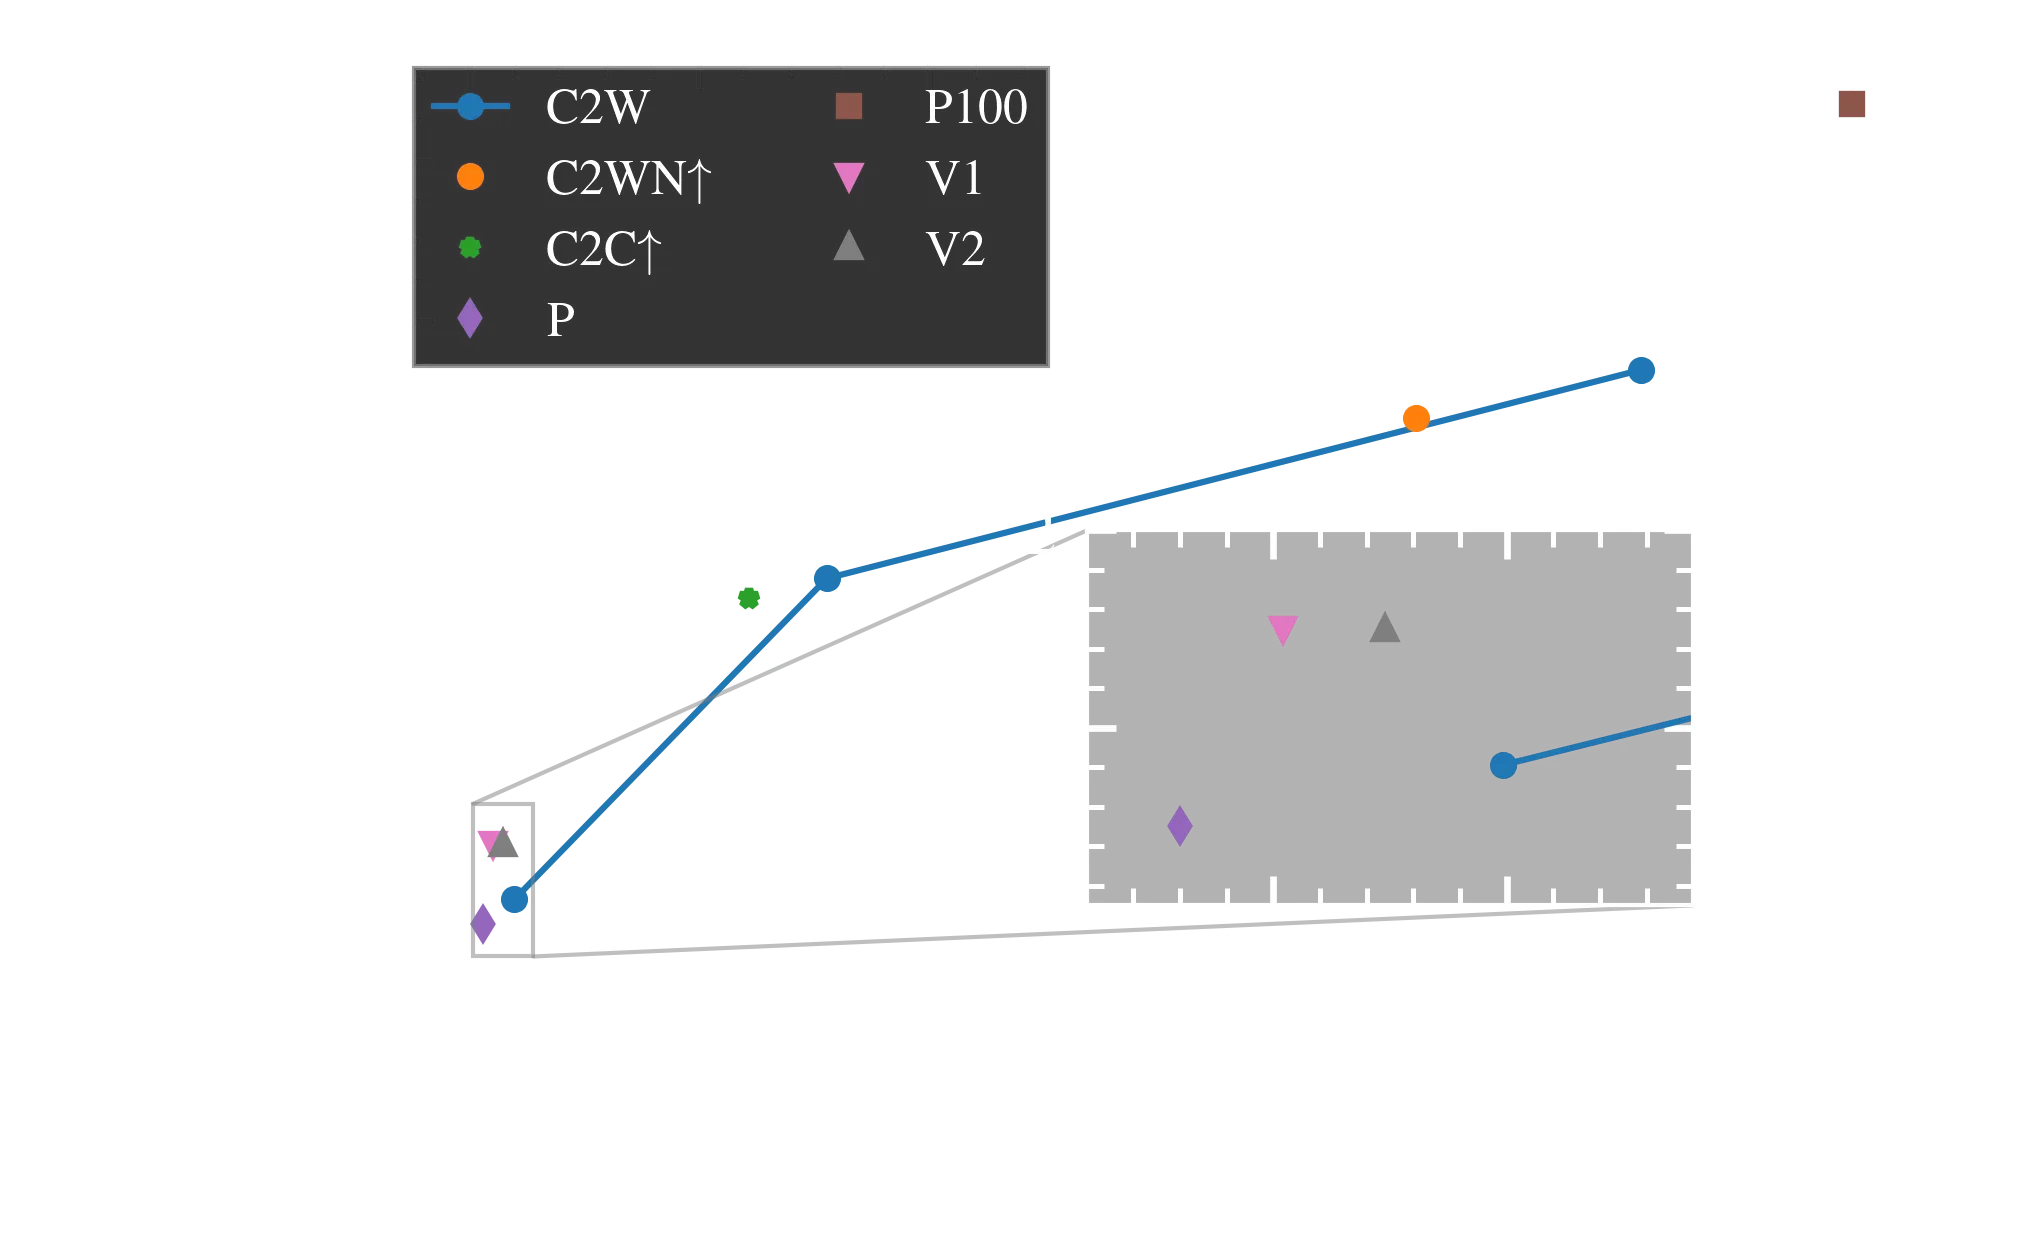
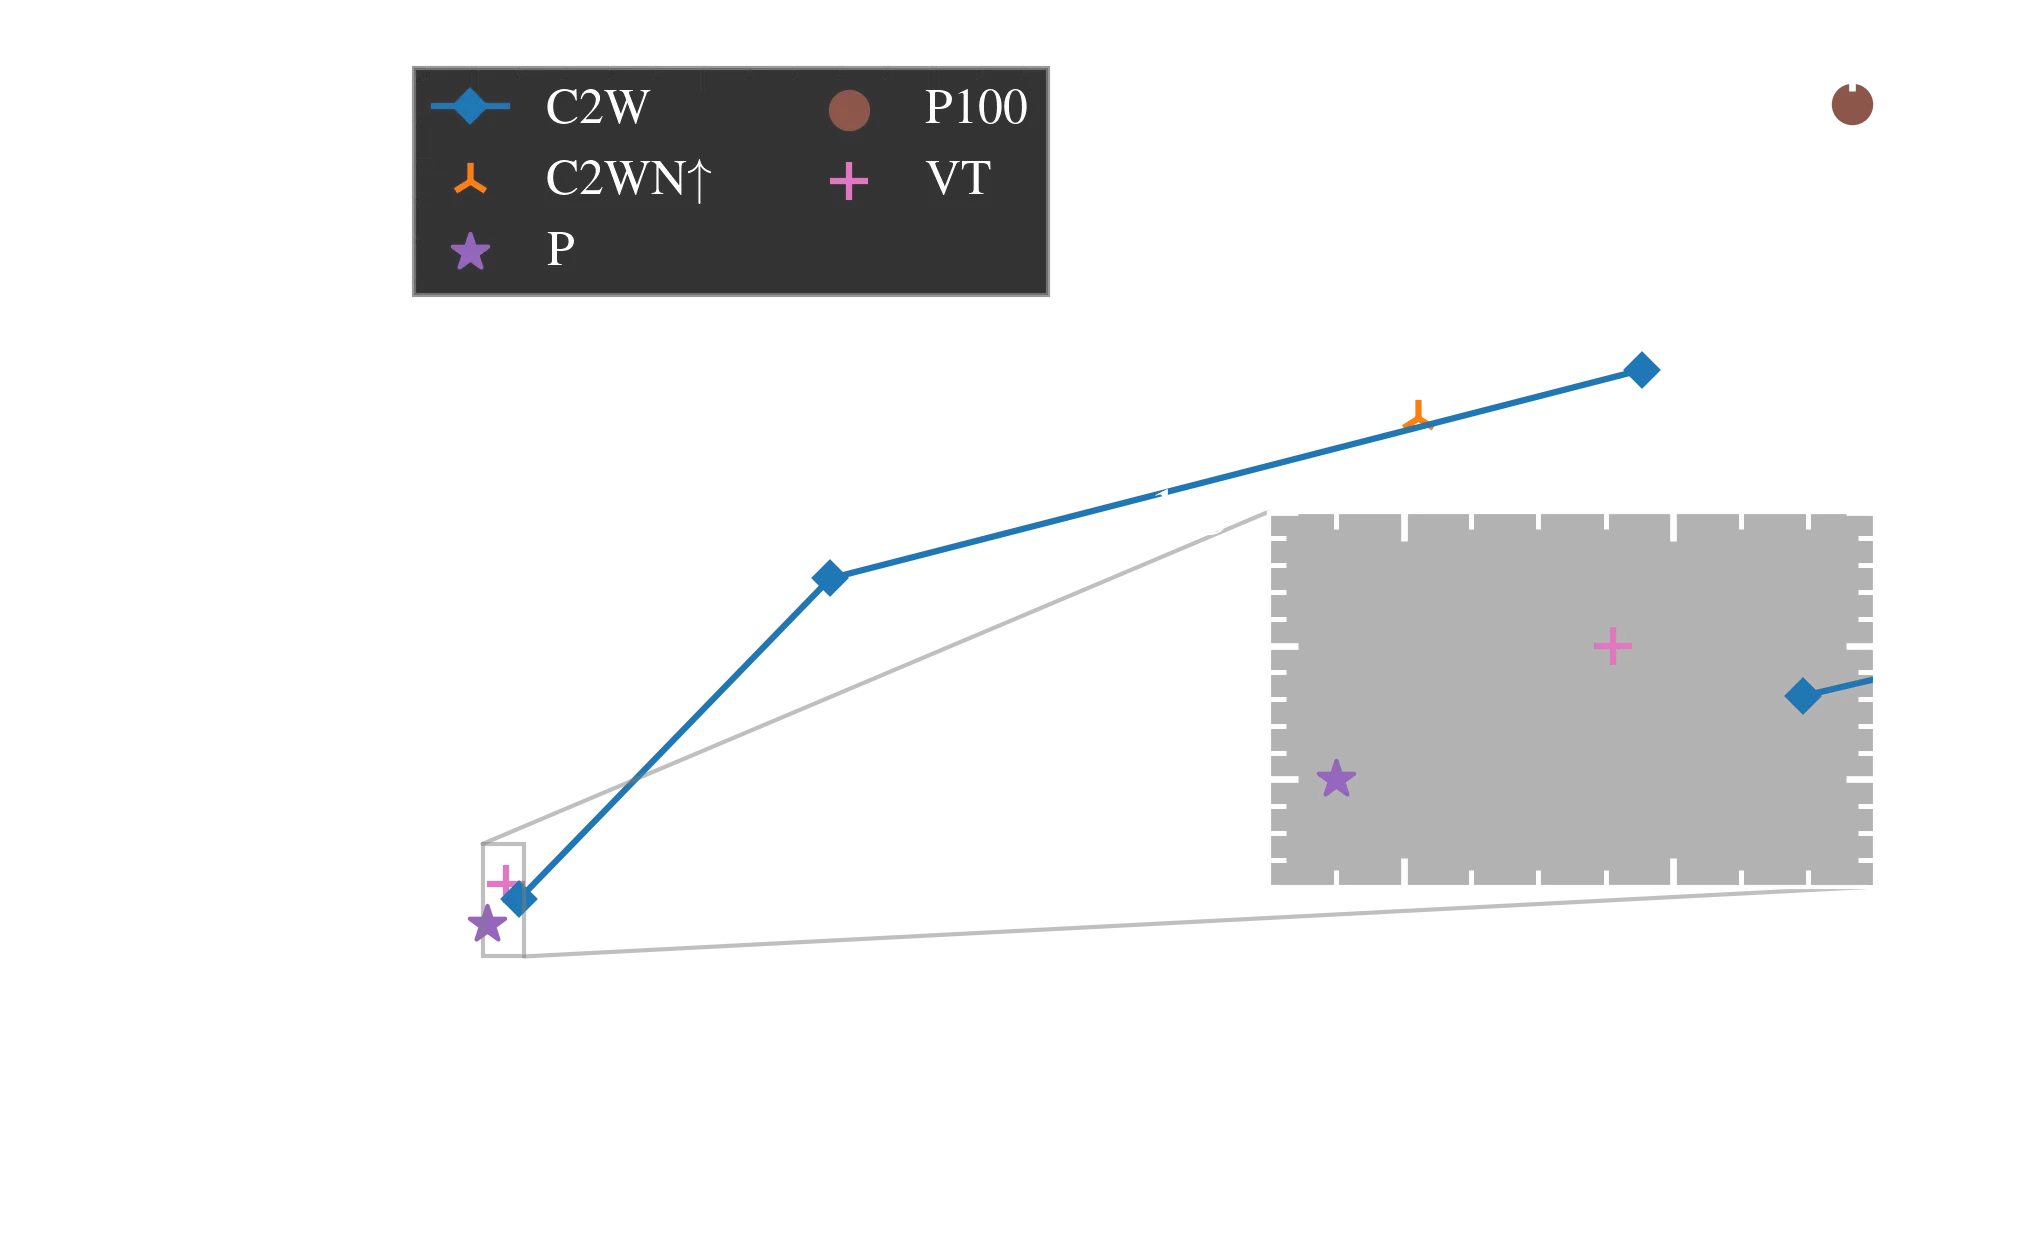
chore: clean up main egu talk

diff --git a/content/2023-03-24-egu-conference.md b/content/2023-03-24-egu-conference.md
@@ -41,15 +41,8 @@ to the magnitude of volcanic eruptions".
 
 ## Motivation
 
-See to the abstract, pull out some of it to mention here.
-
 <!-- .slide: data-background-color="#001928" -->
 <!-- .slide: data-visibility="hidden" -->
-
-Notes:
-
-The reason we are visiting this topic is that there have been several attempts to do
-[this], many of which focus on or assume [something about linearity maybe].
 
 --
 
@@ -88,75 +81,6 @@ Plot from [Gregory et al. (2016)](https://doi.org/10.1007/s00382-016-3055-1), fi
 --
 
 <!-- .slide: data-background-color="#001928" -->
-
-<!-- .slide: data-visibility="hidden" -->
-
-From Gregory et al. (2016):
-
-> It would be useful for investigation of volcanic forcing and feedback in CMIP6 if
-> ensemble experiments were conducted with historical volcanic aerosol as the only
-> forcing agent in each AOGCM, to diagnose the climate response, and with the
-> corresponding AGCMs with prescribed sea surface conditions, to diagnose the radiative
-> forcing. This would reveal whether other models also exhibit a cloud adjustment and a
-> lower climate sensitivity for volcanic forcing, and offer the opportunity for analysis
-> of the processes involved.
-
-<!-- .element: style="font-size:20pt" -->
-
-Expect $M\_\{k,\\,\mathrm\{AOD\}\}^\max\propto
-M\_\{k,\\,\mathrm\{TOA\}\}^\max,\\,\mathrm{AOD}\in (0,0.15)$
-
-<a href="https://doi.org/10.1007/s00382-016-3055-1"
-data-citation-key="@gregory2016">Gregory et al. (2016)</a>
-
-<!-- .element: style="font-size:13pt" -->
-
-Notes:
-
-One note to make about the AOD and radiative imbalance is that they are often assumed as
-being proportional, with a proportionality constant of 25 estimated in the AR5.
-
---
-
-<!-- .slide: data-visibility="hidden" -->
-<!-- .slide: data-background-color="#001928" -->
-
-Using a linear operator to describe temperature fluctuations:
-
-$$
-\Delta T(t)=\hat{L}[f_K(t)]
-$$
-
-$$
-\Delta T(t)=\phi\ast f_K(t)=\phi\ast\sum_k A_k\delta(t-t_k)
-$$
-
-<!-- .element: class="fragment" -->
-
-Notes:
-
-Previous efforts of estimating a temperature response function from forcing data have
-often been to use a linear operator to describe temperature fluctuations in response to
-a forcing. Some studies also assume the forcing from different agents to be similar,
-although this have been disputed by several studies.
-
-The equation is depicting the linear relation between some forcing 𝑓(𝑡) and the
-deterministic temperature fluctuation due to the forcing.
-
-We wish to look further into the linearity assumption in relation to volcanoes over a
-large range of eruption magnitudes. With magnitude, we here mean the total sulphur
-aerosol mass.
-
-In particular; is it reasonable to write up the temperature response to volcanic
-eruptions as a convolution between the forcing and some general shape function, here
-represented by the letter 𝜙.
-
-The forcing is here consisting only of forcing due to episodic volcanoes, where 𝐴
-represent the amplitude of a given volcanic event arriving at time 𝑡_𝑘.
-
---
-
-<!-- .slide: data-background-color="#001928" -->
 <!-- .slide: data-background-size="contain" -->
 <!-- .slide: data-background="./attachments/egu2023/ens-plts/temperature-all-strengths.webp" -->
 
@@ -188,53 +112,6 @@ From this initial simulation of overlapping pulses, the superposing of temperatu
 responses is relatively good, motivating further analysis of the linearity (or lack
 thereof) of the temperature response.
 
---
-
-<!-- .slide: data-visibility="hidden" -->
-<!-- .slide: data-background-color="#001928" -->
-<!-- .slide: data-background="./attachments/egu2023/double-overlap-superpose.webp" -->
-<!-- .slide: data-background-size="contain" -->
-<!-- .slide: data-background-opacity="0.1" -->
-
-`$$
-\Delta T(t)=\phi\ast f_K(t)=\phi\ast\sum_k A_k\delta(t-t_k)
-$$`
-
-`$$
-A_k\left\{
-\begin{aligned}
-&\overset{?}{=}g(M_k^{\max})\\
-&\overset{?}{=}M_k^{\max}
-\end{aligned}
-\right.,\,
-M=\left\{
-\begin{aligned}
-&\mathrm{SO_2\,[Tg]}\\
-&\mathrm{AOD\,[1]}\\
-&\mathrm{TOA\,[W/m^2]}
-\end{aligned}
-\right.
-$$`
-
-<!-- .element: class="fragment" data-fragment-index="1" -->
-
-where `$M_k^{\max}$` is the peak magnitude of event `$k$`.
-
-<!-- .element: class="fragment" data-fragment-index="1" -->
-<!-- .element: style="font-size:20pt" -->
-
-Notes:
-
-The question then become, can we convolve a general response function with some forcing
-representation to obtain temperature fluctuations? Or do we perhaps need a non-linear
-transformation of the forcing to be able to get temperature from convolutions?
-
-We consider three different sources to describe the forcing; total injected SO2 in Tg,
-the aerosol optical depth and forcing as top-of-the-atmosphere radiative imbalance.
-
-(Injected SO2 is used as model input to simulate the volcanoes, while both AOD and
-radiative imbalance are output variables of the model.)
-
 ---
 
 ## Results
@@ -252,14 +129,14 @@ _Legend description for the forthcoming figures._
 | C2W        | CESM2(WACCM6)                |
 | C2WN       | CESM2(WACCM6), high latitude |
 | C2C        | CESM2(CAM6)                  |
-| C1C        | CESM1(CAM5)                  |
 | P          | Pinatubo, observational      |
 | P100       | 100 times Pinatubo           |
-| V1         | VolMIP, version 1            |
-| V2         | VolMIP, version 2            |
+| VT         | VolMIP, Tambora              |
 
 <!-- .element: class_="fragment animated move-to scale-down" data-animated-move-to-left="-15vw" data-animated-move-to-top="10vh" -->
 <!-- .element: style="font-size:15pt" -->
+
+
 
 Notes:
 
@@ -273,89 +150,29 @@ volcanic eruptions of three different sizes:
 
 --
 
-<!-- .slide: data-visibility="hidden" -->
 <!-- .slide: data-background-size="contain" -->
-<!-- .slide: data-background="./attachments/egu2023/ens-plts/injection_vs_temperature.webp" -->
+<!-- .slide: data-background="./attachments/egu2023/ens-plts/aod_vs_temperature_logscale.webp" -->
 
 Notes:
 
-Temperature anomaly against injected SO2.
+Aerosol optical depth versus temperature on semilog-x axis.
 
-Note that the green asterisk, C2C, is NOT part of the inset, but has the same AOD value
-as the orange circle (C2WN), and the most extreme C2W point.
+This plot is showing the peak values of the three individual CESM2(WACCM6) runs, the
+CESM2(WACCM6) run that is the same as the largest individual, but placed at 56 degree
+north, as well as data from the Mount Pinatubo eruption, Pinatubo times 100 simulation
+and Mount Tambora Eruption.
+
+The C2W temperature data show close to logarithmic dependence on AOD, while data from
+other sources than CESM2 fall slightly off this, with especially the Pinatubo times 100
+simulation having a large temperature response.
 
 | Short Name | Long Name                    |
 | :--------- | :--------------------------- |
 | C2W        | CESM2(WACCM6)                |
-| C2WN       | CESM2(WACCM6), high latitude |
-| C2C        | CESM2(CAM6)                  |
-| C1C        | CESM1(CAM5)                  |
-| P          | Pinatubo, observational      |
+| C2WN⬆      | CESM2(WACCM6), high latitude |
+| P          | Pinatubo                     |
 | P100       | 100 times Pinatubo           |
-| V          | VolMIP                       |
-
---
-
-<!-- .slide: data-visibility="hidden" -->
-<!-- .slide: data-background-size="contain" -->
-<!-- .slide: data-background="./attachments/egu2023/ens-plts/injection_vs_temperature_logscale.webp" -->
-
-Notes:
-
-Same as the previous: temperature anomaly against injected SO2, but on a logarithmic
-axis for the injected SO2.
-
-| Short Name | Long Name                    |
-| :--------- | :--------------------------- |
-| C2W        | CESM2(WACCM6)                |
-| C2WN       | CESM2(WACCM6), high latitude |
-| C2C        | CESM2(CAM6)                  |
-| C1C        | CESM1(CAM5)                  |
-| P          | Pinatubo, observational      |
-| P100       | 100 times Pinatubo           |
-| V          | VolMIP                       |
-
---
-
-<!-- .slide: data-visibility="hidden" -->
-<!-- .slide: data-background-size="contain" -->
-<!-- .slide: data-background="./attachments/egu2023/ens-plts/injection_vs_aod.webp" -->
-
-Notes:
-
-Injection versus aerosol optical depth
-
-| Short Name | Long Name                    |
-| :--------- | :--------------------------- |
-| C2W        | CESM2(WACCM6)                |
-| C2WN       | CESM2(WACCM6), high latitude |
-| C2C        | CESM2(CAM6)                  |
-| C1C        | CESM1(CAM5)                  |
-| P          | Pinatubo, observational      |
-| P100       | 100 times Pinatubo           |
-| V1         | VolMIP, version 1            |
-| V2         | VolMIP, version 2            |
-
---
-
-<!-- .slide: data-visibility="hidden" -->
-<!-- .slide: data-background-size="contain" -->
-<!-- .slide: data-background="./attachments/egu2023/ens-plts/injection_vs_aod_logscale.webp" -->
-
-Notes:
-
-Injection versus aerosol optical depth on log-log axis
-
-| Short Name | Long Name                    |
-| :--------- | :--------------------------- |
-| C2W        | CESM2(WACCM6)                |
-| C2WN       | CESM2(WACCM6), high latitude |
-| C2C        | CESM2(CAM6)                  |
-| C1C        | CESM1(CAM5)                  |
-| P          | Pinatubo, observational      |
-| P100       | 100 times Pinatubo           |
-| V1         | VolMIP, version 1            |
-| V2         | VolMIP, version 2            |
+| VT         | VolMIP, Tambora              |
 
 --
 
@@ -364,50 +181,21 @@ Injection versus aerosol optical depth on log-log axis
 
 Notes:
 
-Aerosol optical depth versus temperature
+Plotting this on linear axis makes it more clear that the biggest outlier is the
+Pinatubo times 100 simulation, while the Pinatubo and Tambora data lie close to the
+weakest CESM2 simulation.
+
+A similar plot can be made with temperature anomaly against injected SO2 (input field to
+the CESM2 simulations), but this is not shown here since it is close to a simple scaling
+of the x-axis.
 
 | Short Name | Long Name                    |
 | :--------- | :--------------------------- |
 | C2W        | CESM2(WACCM6)                |
-| C2WN       | CESM2(WACCM6), high latitude |
-| C2C        | CESM2(CAM6)                  |
-| C1C        | CESM1(CAM5)                  |
-| P          | Pinatubo, observational      |
+| C2WN⬆      | CESM2(WACCM6), high latitude |
+| P          | Pinatubo                     |
 | P100       | 100 times Pinatubo           |
-| V1         | VolMIP, version 1            |
-| V2         | VolMIP, version 2            |
-
---
-
-<!-- .slide: data-background-size="contain" -->
-<!-- .slide: data-background="./attachments/egu2023/ens-plts/aod_vs_temperature_logscale.webp" -->
-
-Notes:
-
-Aerosol optical depth versus temperature on semilog-x axis
-
-| Short Name | Long Name                    |
-| :--------- | :--------------------------- |
-| C2W        | CESM2(WACCM6)                |
-| C2WN       | CESM2(WACCM6), high latitude |
-| C2C        | CESM2(CAM6)                  |
-| C1C        | CESM1(CAM5)                  |
-| P          | Pinatubo, observational      |
-| P100       | 100 times Pinatubo           |
-| V1         | VolMIP, version 1            |
-| V2         | VolMIP, version 2            |
-
---
-
-<!-- .slide: data-visibility="hidden" -->
-<!-- .slide: data-background-size="contain" -->
-<!-- .slide: data-background="./attachments/egu2023/ens-plts/injection_vs_toa.webp" -->
-
---
-
-<!-- .slide: data-visibility="hidden" -->
-<!-- .slide: data-background-size="contain" -->
-<!-- .slide: data-background="./attachments/egu2023/ens-plts/toa_vs_temperature.webp" -->
+| VT         | VolMIP, Tambora              |
 
 --
 
@@ -416,9 +204,37 @@ Aerosol optical depth versus temperature on semilog-x axis
 
 Notes:
 
-Annual mean of radiative forcing against aerosol optical depth. All simulations are with
-the CESM2 climate model and dynamic ocean, one was run with CAM6 while the rest was
-using WACCM6 in the middle atmosphere configuration.
+Similar plot to the one shown from Gregory et al. (2016), of annual mean radiative
+forcing against aerosol optical depth.
+
+All C2W-labels are simulations with the CESM2 climate model and dynamic ocean using
+WACCM6 in the middle atmosphere configuration. Blue, downward pointing triangles
+indicate annual means from the simulation with the weakest eruption (similar to Mt.
+Pinatubo); orange diamond indicate the medium-sized eruption simulation and green upward
+pointing arrow indicate means from the strongest eruption simulation. The peak values
+from the three simulations are shown as the red circles.
+
+The two largest (green and orange) line up quite well, the medium with a steeper
+gradient than the strong, but where the strong have some points among the medium
+eruption (along the -4 gradient line) stemming from the initial rise/descent of the
+eruption. The decaying part last longer, thus more points come from the decay, and they
+line up close to on a gradient of -1.
+
+Also shown is the double and overlapping simulation where two medium-sized eruptions
+were used. The points from this simulation, shown by the red thin diamonds, places
+themselves among the points coming from the medium-sized individual simulation, as
+expected.
+
+The brown triplet shows an individual eruption simulation using the strongest eruption,
+but placed at 56 degrees north. The response is not as strong as for the equatorial
+eruption, but still the annual means fall in line with the path draw by the green
+triangles.
+
+The peak values from the Pinatubo times 100 simulation is shown with a pink square. This
+simulation incidently falls on the same gradient line as the medium-sized eruption.
+
+For comparison, the HadCM3 data points from the figure by Gregory et al. (2016) is also
+shown in grey "x"-es.
 
 | Short Name | Long Name                                              |
 | :--------- | :----------------------------------------------------- |
